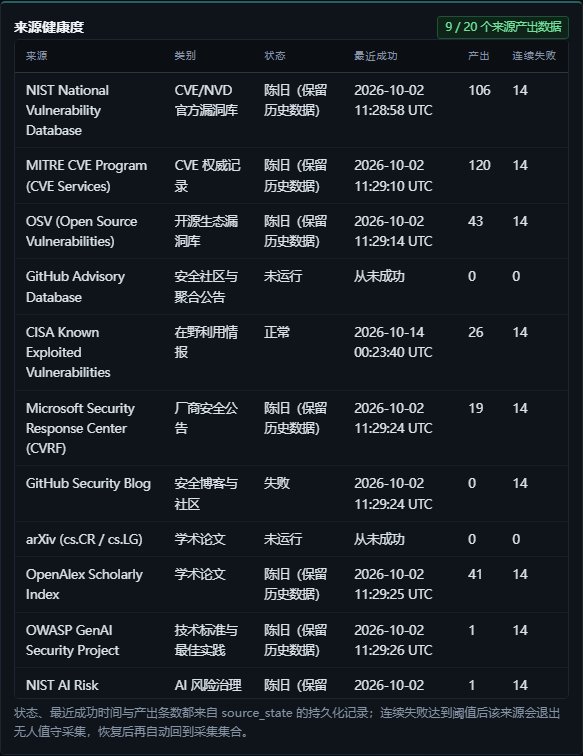
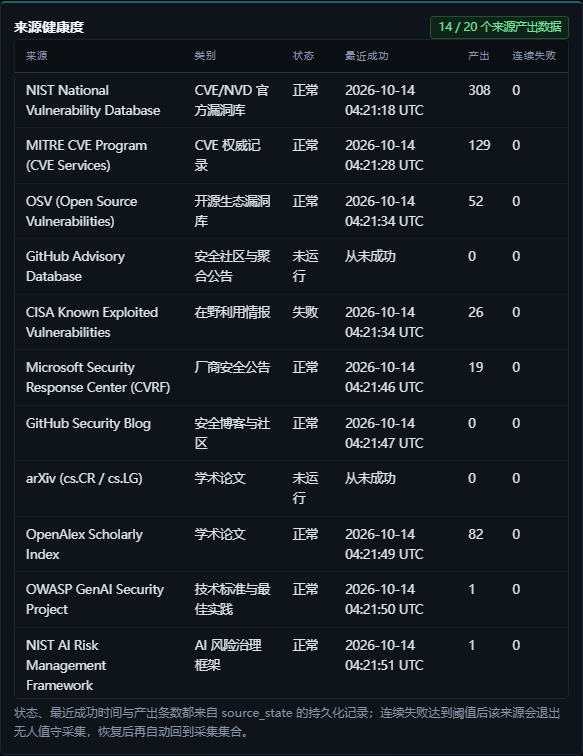
test(A): 四项新能力的浏览器级验证与截图（任务书 A3）
- tools/browser_check.py 新增三段，全部走真实 Chromium 并与接口逐项核对：
  2a2 模型降级链与角色绑定（3 级逐级渲染、当前生效层级、7 个角色绑定、
       每一级被跳过的原因都写在页面上）
  2b2 术语语义字典与术语到文档两跳（术语卡数量与 /api/knowledge/terms 一致、
       已覆盖术语标出关联文档数、未覆盖术语如实标注、两跳图里术语节点与文档节点分型、
       卡片写明不等同跨文档推理）
  4a  推荐问法（按钮数量与 /api/qa/suggestions 可渲染数量一致，注明取自固定评测集）
  4b  技术详情（折叠区展开后列出计划、工具调用与耗时）
- 四张截图落盘 docs/screenshots/11-term-dictionary.png、12-model-chain.png、
  13-question-suggestions.png、14-technical-detail.png，并在报告第九章引用
- 报告第九章补四行并重跑 tools/build_technical_report.py（68 blocks）

实测：三段新增断言全部通过；唯一遗留失败是既有的
"Finished answer updates the focus event"——那条检查问的是 CVE-2026-22778，
该事件不在本机库里（库中 496 个事件，没有这一条），属于环境差异，不是回归。

diff --git a/tools/browser_check.py b/tools/browser_check.py
@@ -150,6 +150,28 @@ def run(base: str) -> int:
         source_panel.screenshot(path=str(SHOT_DIR / "09-source-health.png"))
         system_panel.screenshot(path=str(SHOT_DIR / "10-system-health.png"))
 
+        print("\n2a2. 模型降级链与角色绑定（浏览器实测 + 与接口核对）")
+        chain = page.evaluate("() => fetch('/api/system/model-chain').then(r => r.json())")
+        chain_panel = page.locator("#body-scorecard article.score-capability").filter(
+            has=page.locator("h3", has_text="模型降级链与角色绑定")).first
+        check("模型降级链面板已渲染", chain_panel.count() > 0)
+        levels = chain.get("levels") or []
+        bindings = chain.get("role_bindings") or []
+        level_rows = chain_panel.locator("table").first.locator("tbody tr").count()
+        check("降级链逐级渲染", level_rows == len(levels),
+              f"页面 {level_rows} 行 / 接口 {len(levels)} 级")
+        check("当前生效层级与接口一致",
+              f"第 {chain.get('active_level')} 级" in chain_panel.inner_text(),
+              f"active_level={chain.get('active_level')}")
+        role_rows = chain_panel.locator("table").nth(1).locator("tbody tr").count()
+        check("角色绑定逐行渲染", role_rows == len(bindings),
+              f"页面 {role_rows} 行 / 接口 {len(bindings)} 个角色")
+        skip_reasons = [item.get("skip_reason") for item in levels if item.get("skip_reason")]
+        check("每一级被跳过的原因都写在页面上",
+              all(reason in chain_panel.inner_text() for reason in skip_reasons),
+              f"{len(skip_reasons)} 条原因")
+        chain_panel.screenshot(path=str(DOC_SHOT_DIR / "12-model-chain.png"))
+
         print("\n2b. 知识图谱可视化")
         page.click("#tab-knowledge")
         wait_until(lambda: page.locator("#body-knowledge .knowledge-map").count() == 1,
@@ -166,6 +188,35 @@ def run(base: str) -> int:
             check("文档可展开核查正文与块级状态",
                   "章节" in detail_text and ("正文块" in detail_text or "块" in detail_text))
         page.screenshot(path=str(SHOT_DIR / "02c-knowledge.png"), full_page=True)
+
+        print("\n2b2. 术语语义字典与术语 → 文档两跳（浏览器实测 + 与接口核对）")
+        terms_payload = page.evaluate("() => fetch('/api/knowledge/terms').then(r => r.json())")
+        terms_api = terms_payload.get("items") or []
+        wait_until(lambda: page.locator("#body-knowledge .term-card").count() >= 1,
+                   timeout_s=20, what="术语卡")
+        term_cards = page.locator("#body-knowledge .term-card").count()
+        check("术语卡逐条渲染", term_cards == len(terms_api),
+              f"页面 {term_cards} 张 / 接口 {len(terms_api)} 个术语")
+        knowledge_now = page.inner_text("#body-knowledge")
+        covered = [item for item in terms_api if item.get("covered")]
+        check("已覆盖术语标出关联文档数",
+              all(f"覆盖 {item['document_count']} 份文档" in knowledge_now for item in covered),
+              f"{len(covered)} 个已覆盖术语")
+        check("未覆盖术语如实标注而不是编造释义",
+              all("语料未覆盖" in knowledge_now for item in terms_api if not item.get("covered")))
+
+        term_graph = page.locator("#body-knowledge .term-graph")
+        check("术语 → 文档两跳已渲染", term_graph.count() == 1)
+        term_nodes = term_graph.locator(".knowledge-node.term").count()
+        other_nodes = term_graph.locator(".knowledge-node.document, .knowledge-node.event").count()
+        check("图谱里术语节点与文档节点分型渲染",
+              term_nodes >= 1 and other_nodes >= 1,
+              f"术语节点 {term_nodes} / 文档与事件节点 {other_nodes}")
+        check("两跳卡片写明不等同跨文档推理",
+              "不等于文档之间的跨文档推理" in knowledge_now)
+        term_card = page.locator("#body-knowledge .card").filter(
+            has=page.locator(".term-card")).first
+        term_card.screenshot(path=str(DOC_SHOT_DIR / "11-term-dictionary.png"))
 
         print("\n2c. 标准资产仿真")
         page.click("#tab-overview")
@@ -270,6 +321,22 @@ def run(base: str) -> int:
         page.click("#tab-overview")
         page.click('details[data-module="chat"] > summary')
         page.wait_for_timeout(200)
+
+        print("\n4a. 推荐问法（取自固定评测集）")
+        suggestions = page.evaluate("() => fetch('/api/qa/suggestions').then(r => r.json())")
+        wait_until(lambda: page.locator("#body-chat .suggestion-chip").count() >= 1,
+                   timeout_s=20, what="推荐问法")
+        chips = page.locator("#body-chat .suggestion-chip").count()
+        expected_chips = sum(len((group.get("questions") or [])[:4])
+                             for group in (suggestions.get("items") or []))
+        check("推荐问法按钮与接口同源", chips == expected_chips,
+              f"页面 {chips} 个 / 接口可渲染 {expected_chips} 个")
+        check("推荐问法注明取自固定评测集",
+              "固定评测集" in page.inner_text("#body-chat"))
+        suggestion_card = page.locator("#body-chat .chat-log > .card").filter(
+            has_text="推荐问法").first
+        suggestion_card.screenshot(path=str(DOC_SHOT_DIR / "13-question-suggestions.png"))
+
         page.fill("#body-chat textarea", QUESTION)
         page.click("#body-chat button.btn--primary")
         wait_until(lambda: page.locator("#body-chat .stream-line").count() >= 1,
@@ -299,6 +366,20 @@ def run(base: str) -> int:
             citation = page.locator("#body-chat .citation-drilldown").first
             check("Citation drills down to a chunk or an explicit source-level limitation",
                   citation.locator(".rag-chunk").count() > 0 or citation.locator(".alert--warn").count() > 0)
+
+        print("\n4b. 技术详情：本轮计划与工具调用")
+        detail = page.locator("#body-chat details").filter(has_text="技术详情").first
+        check("技术详情折叠区已渲染", detail.count() > 0)
+        if detail.count():
+            detail.locator("summary").first.click()
+            page.wait_for_timeout(250)
+            detail_text = detail.inner_text()
+            check("技术详情列出工具调用与耗时",
+                  "工具" in detail_text and "耗时" in detail_text)
+            check("技术详情列出本轮计划",
+                  "计划" in detail_text)
+            detail.screenshot(path=str(DOC_SHOT_DIR / "14-technical-detail.png"))
+
         page.fill("#body-chat textarea", "\u524d\u8005\u5f71\u54cd\u54ea\u4e2a\u8d44\u4ea7\uff1f")
         page.click("#body-chat button.btn--primary")
         wait_until(lambda: page.locator("#body-chat .context-confirmation .alert--warn").count() == 1,

diff --git a/tools/build_technical_report.py b/tools/build_technical_report.py
@@ -373,6 +373,17 @@ SECTIONS = [
        "docs/screenshots/09-source-health.png、/api/system/health"],
       ["系统健康", "模块状态、活跃降级、冷却截止与最近告警",
        "docs/screenshots/10-system-health.png、/api/system/health"],
+      ["术语语义字典", "知识图谱页：14 张术语卡，已覆盖的标出关联文档数并给出语料原文定义句（带 chunk id 与字符偏移），"
+     "未覆盖的如实标注而不是编造释义",
+       "docs/screenshots/11-term-dictionary.png、/api/knowledge/terms"],
+      ["术语 → 文档两跳", "知识图谱页：术语节点与文档节点分型渲染的两跳关系",
+       "docs/screenshots/11-term-dictionary.png、/api/knowledge/graph"],
+      ["模型降级链与角色绑定", "赛题指标页：三级降级链（含每一级被跳过的原因）与七个角色的模型绑定",
+       "docs/screenshots/12-model-chain.png、/api/system/model-chain"],
+      ["推荐问法", "问答区：题目直接取自固定评测集，点一下即填入输入框；拒答类题目不入列",
+       "docs/screenshots/13-question-suggestions.png、/api/qa/suggestions"],
+      ["技术详情", "回答展开后的本轮计划、工具调用与返回条数、耗时与已知限制",
+       "docs/screenshots/14-technical-detail.png"],
       ["富化", "事件详情中的 CVSS、受影响区间、修复版本与来源标识", "docs/CASE_ENRICHMENT_INFERENCE.md"],
       ["问答与多轮", "多轮追问、跨文档引用、拒答三组界面截图", "docs/screenshots/b-qa-0*.png"],
       ["处置闭环", "高优先级队列、复测关闭与操作前后对比截图", "docs/A_DISPOSITION_LIVE_CLOSURE.md"]]),
